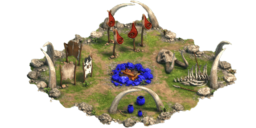
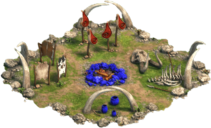
Début débug merge ia

diff --git a/world.py b/world.py
@@ -164,7 +164,8 @@ class World:
                         if isinstance(building, Caserne):
                             correctifx = -45
                         elif isinstance(building, Hdv):
-                            correctifx = -20
+                            correctifx = -40
+                            correctify = -15
                         elif isinstance(building, House):
                             correctify = -15
                         screen.blit(self.tiles[building.name],
@@ -659,16 +660,16 @@ class World:
         unites.append(Clubman((11, 8), self.joueurs[0]))  # ligne pour tester les soldats
         unites.append(Clubman((12, 15), self.joueurs[1]))  # ligne pour tester les soldats
         
-        unites.append(Villageois((7, 7), joueurs[0]))  # ligne pour tester les villageois
-        unites.append(Villageois((8, 11), joueurs[0]))  # ligne pour tester les villageois
-        unites.append(Villageois((90, 93), joueurs[1]))# ligne pour tester les villageois
-        unites.append(Villageois((92, 93), joueurs[1]))
-        unites.append(Villageois((91, 94), joueurs[1]))
+        unites.append(Villageois((7, 7), self.joueurs[0]))  # ligne pour tester les villageois
+        unites.append(Villageois((8, 11), self.joueurs[0]))  # ligne pour tester les villageois
+        unites.append(Villageois((90, 93), self.joueurs[1]))# ligne pour tester les villageois
+        unites.append(Villageois((92, 93), self.joueurs[1]))
+        unites.append(Villageois((91, 94), self.joueurs[1]))
 
-        unites.append(Clubman((65, 65), joueurs[0]))
-        unites.append(Clubman((65, 66), joueurs[0]))
-        unites.append(Clubman((66, 66), joueurs[0]))
-        unites.append(Clubman((66, 65), joueurs[0]))
+        unites.append(Clubman((65, 65), self.joueurs[0]))
+        unites.append(Clubman((65, 66), self.joueurs[0]))
+        unites.append(Clubman((66, 66), self.joueurs[0]))
+        unites.append(Clubman((66, 65), self.joueurs[0]))
 
         return unites
 

diff --git a/camera.py b/camera.py
@@ -28,20 +28,18 @@ class Camera:
     def update(self):
         mouse_pos = pygame.mouse.get_pos()
 
-        # if mouse_pos[0] > self.width * 0.97:
-        #     self.dx = -self.speed
-        # elif mouse_pos[0] < self.width * 0.03:
-        #     self.dx = self.speed
-        # el
-        if not self.yBoolM and not self.yBoolP and not self.xBoolM and not self.xBoolP:
+        if mouse_pos[0] > self.width * 0.97:
+            self.dx = -self.speed
+        elif mouse_pos[0] < self.width * 0.03:
+            self.dx = self.speed
+        elif not self.yBoolM and not self.yBoolP and not self.xBoolM and not self.xBoolP:
             self.dx = 0
 
-        # if mouse_pos[1] > self.height * 0.97:
-        #     self.dy = -self.speed
-        # elif mouse_pos[1] < self.height * 0.03:
-        #     self.dy = self.speed
-        # el
-        if not self.yBoolM and not self.yBoolP and not self.xBoolM and not self.xBoolP:
+        if mouse_pos[1] > self.height * 0.97:
+            self.dy = -self.speed
+        elif mouse_pos[1] < self.height * 0.03:
+            self.dy = self.speed
+        elif not self.yBoolM and not self.yBoolP and not self.xBoolM and not self.xBoolP:
             self.dy = 0
 
         self.scroll.x += self.dx

diff --git a/buildings.py b/buildings.py
@@ -1,14 +1,15 @@
 class Batiment:
 
-    def __init__(self, pos, name, max_health, place, joueur, place_batiment):
+    def __init__(self, pos, name, max_health, place_unite, joueur, place_batiment):
         self.name = name
         self.health = 0
         self.max_health = max_health
         self.counter = 0
-        self.place = place
+        self.place_unite = place_unite
         self.joueur = joueur
         self.resource_manager = self.joueur.resource_manager
         self.resource_manager.apply_cost_to_resource(self.name)
+        self.resource_manager.update_population_max(place_unite)
         self.pos = pos
         self.place_batiment = place_batiment
         self.construit = False
@@ -16,11 +17,10 @@ class Batiment:
 
 class Hdv(Batiment):
 
-    def __init__(self, pos, joueur):*
+    def __init__(self, pos, joueur):
         Batiment.__init__(self, pos, "hdv", 500, 5, joueur, 4)
         self.health = self.max_health
         self.construit = True
-        self.resource_manager.update_population_max(self.place)
 
 
 class Caserne(Batiment):

diff --git a/game.py b/game.py
@@ -36,7 +36,7 @@ class Game:
         self.world = World(self.hud, 100, 100, self.width, self.height, self.joueurs, self.seed)  # les deux premiers int sont longueur et largeur du monde
 
         self.camera = Camera(self.width, self.height)
-        self.camera.pos_hdv_base((10, 10))  # todo a changer lors de repartition random des HDV
+        self.camera.pos_hdv_base((90, 90))  # todo a changer lors de repartition random des HDV
 
         self.group = Group()
         self.selection = Selection()

diff --git a/unite.py b/unite.py
@@ -55,6 +55,8 @@ class Unite(metaclass=ABCMeta):
             pos_end = self.find_closer_pos(pos_end, world, buildings, unites, animaux)
         else:
             self.cible = None
+        if not pos_end:
+            return
         if buildings[pos_end[0]][pos_end[1]] and buildings[pos_end[0]][pos_end[1]].joueur != self.joueur:
             self.cible = buildings[pos_end[0]][pos_end[1]]
             pos_end = self.find_closer_pos(pos_end, world, buildings, unites, animaux)
